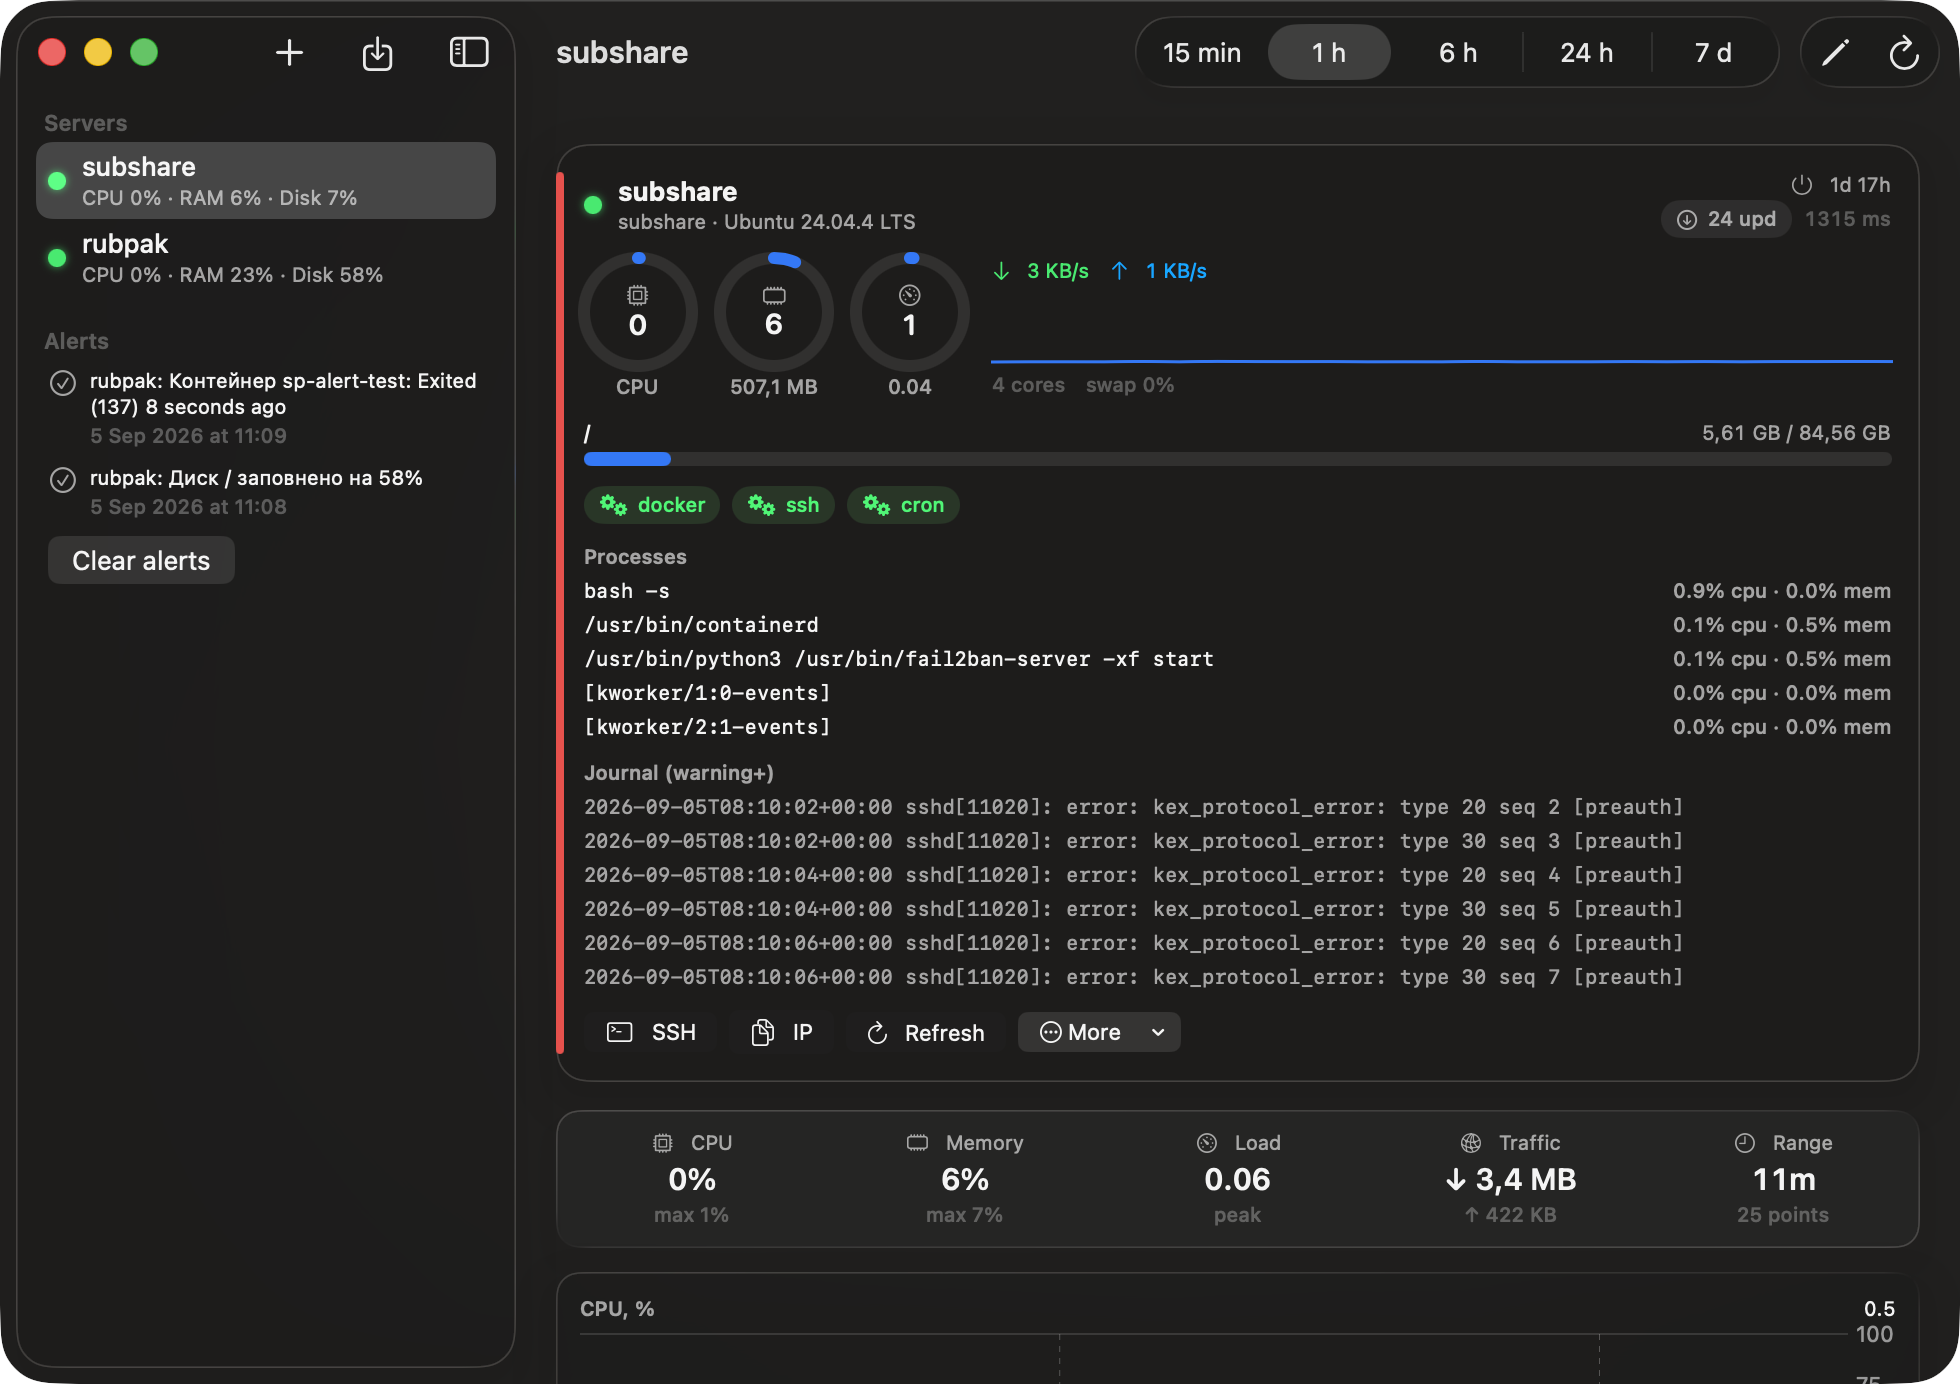
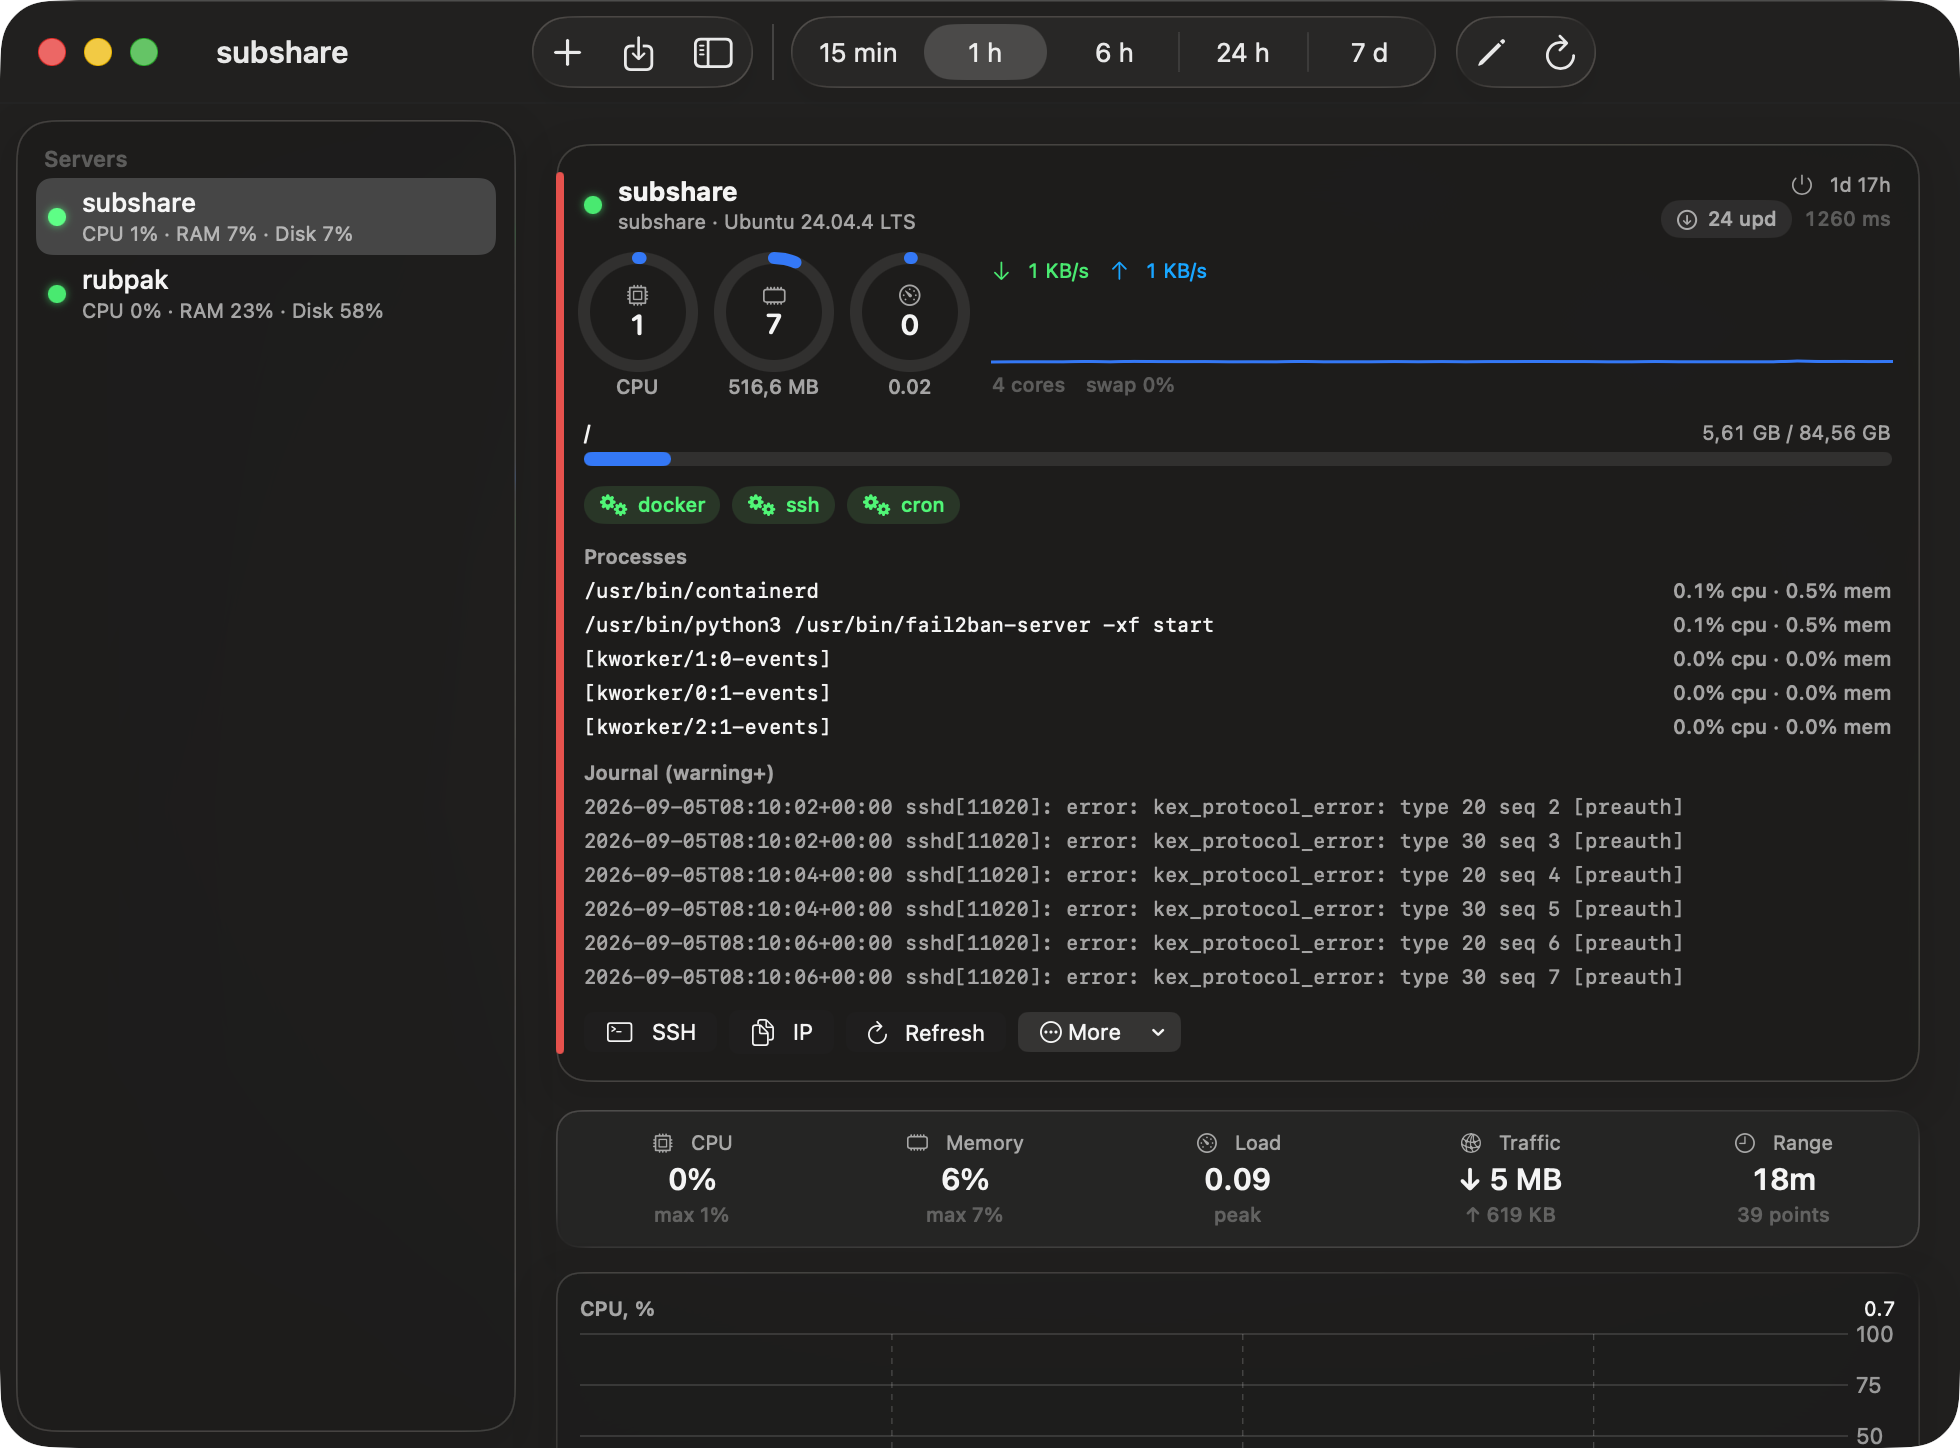
English screenshots for both READMEs, charts screenshot, standard dashboard titlebar, localized chart titles, taller settings

diff --git a/Sources/ServerPulse/Views/DashboardView.swift b/Sources/ServerPulse/Views/DashboardView.swift
@@ -59,11 +59,14 @@ struct DashboardView: View {
             }
         } detail: {
             if let s = server {
-                ScrollView {
-                    VStack(alignment: .leading, spacing: 14) {
-                        ServerCard(server: s)
-                        charts(s)
-                    }.padding(20)
+                ScrollViewReader { proxy in
+                    ScrollView {
+                        VStack(alignment: .leading, spacing: 14) {
+                            ServerCard(server: s)
+                            charts(s).id("charts")
+                        }.padding(20)
+                    }
+                    .onAppear { if CommandLine.arguments.contains("--scroll-charts") { DispatchQueue.main.asyncAfter(deadline: .now() + 3) { withAnimation { proxy.scrollTo("charts", anchor: .top) } } } }
                 }
                 .navigationTitle(s.name)
                 .toolbar {
@@ -109,8 +112,8 @@ struct DashboardView: View {
         return VStack(alignment: .leading, spacing: 12) {
             if raw.count > 1 { stats(raw) }
             chart("CPU, %", pts.map { ($0.t, $0.cpu) }, color: .accentColor, max: 100)
-            chart("Памʼять, %", pts.map { ($0.t, $0.mem) }, color: .purple, max: 100)
-            chart("Load (1 хв)", pts.map { ($0.t, $0.load) }, color: .orange, max: nil)
+            chart(L("Памʼять, %"), pts.map { ($0.t, $0.mem) }, color: .purple, max: 100)
+            chart(L("Load (1 хв)"), pts.map { ($0.t, $0.load) }, color: .orange, max: nil)
             netChart(pts)
         }
     }

diff --git a/Sources/ServerPulse/App.swift b/Sources/ServerPulse/App.swift
@@ -10,9 +10,9 @@ final class AppState {
     private var dashboardWindow: NSWindow?
     func openDashboard() {
         if dashboardWindow == nil {
-            let w = NSWindow(contentRect: NSRect(x: 0, y: 0, width: 1100, height: 720), styleMask: [.titled, .closable, .miniaturizable, .resizable, .fullSizeContentView], backing: .buffered, defer: false)
+            let w = NSWindow(contentRect: NSRect(x: 0, y: 0, width: 1100, height: 720), styleMask: [.titled, .closable, .miniaturizable, .resizable], backing: .buffered, defer: false)
             w.contentViewController = NSHostingController(rootView: DashboardView().environment(monitor))
-            w.title = "ServerPulse"; w.titlebarAppearsTransparent = true; w.isReleasedWhenClosed = false; w.center()
+            w.title = "ServerPulse"; w.isReleasedWhenClosed = false; w.center()
             dashboardWindow = w
         }
         NSApp.activate(ignoringOtherApps: true)

diff --git a/Sources/ServerPulse/Views/SettingsView.swift b/Sources/ServerPulse/Views/SettingsView.swift
@@ -50,7 +50,7 @@ struct SettingsView: View {
                 Text("Дані зберігаються в ~/Library/Application Support/ServerPulse. Паролі не використовуються: лише SSH-ключі з ~/.ssh/config або агента.").font(.caption).foregroundStyle(.tertiary)
             }
         }
-        .formStyle(.grouped).frame(width: 560, height: 640)
+        .formStyle(.grouped).frame(width: 560, height: 880)
     }
 
     private func relaunch() {

diff --git a/README.md b/README.md
@@ -26,7 +26,8 @@ ServerPulse lives in the menu bar and polls your Linux servers over SSH. No agen
 - Ukrainian and English UI, launch at login, adjustable interval and thresholds, per-server log filter (default hides `UFW BLOCK` noise).
 
 <p align="center">
-  <img src="docs/dashboard-en.png" width="900" alt="Dashboard">
+  <img src="docs/dashboard-en.png" width="900" alt="Dashboard"><br><br>
+  <img src="docs/charts-en.png" width="900" alt="History charts and period summary">
 </p>
 
 ## Install
